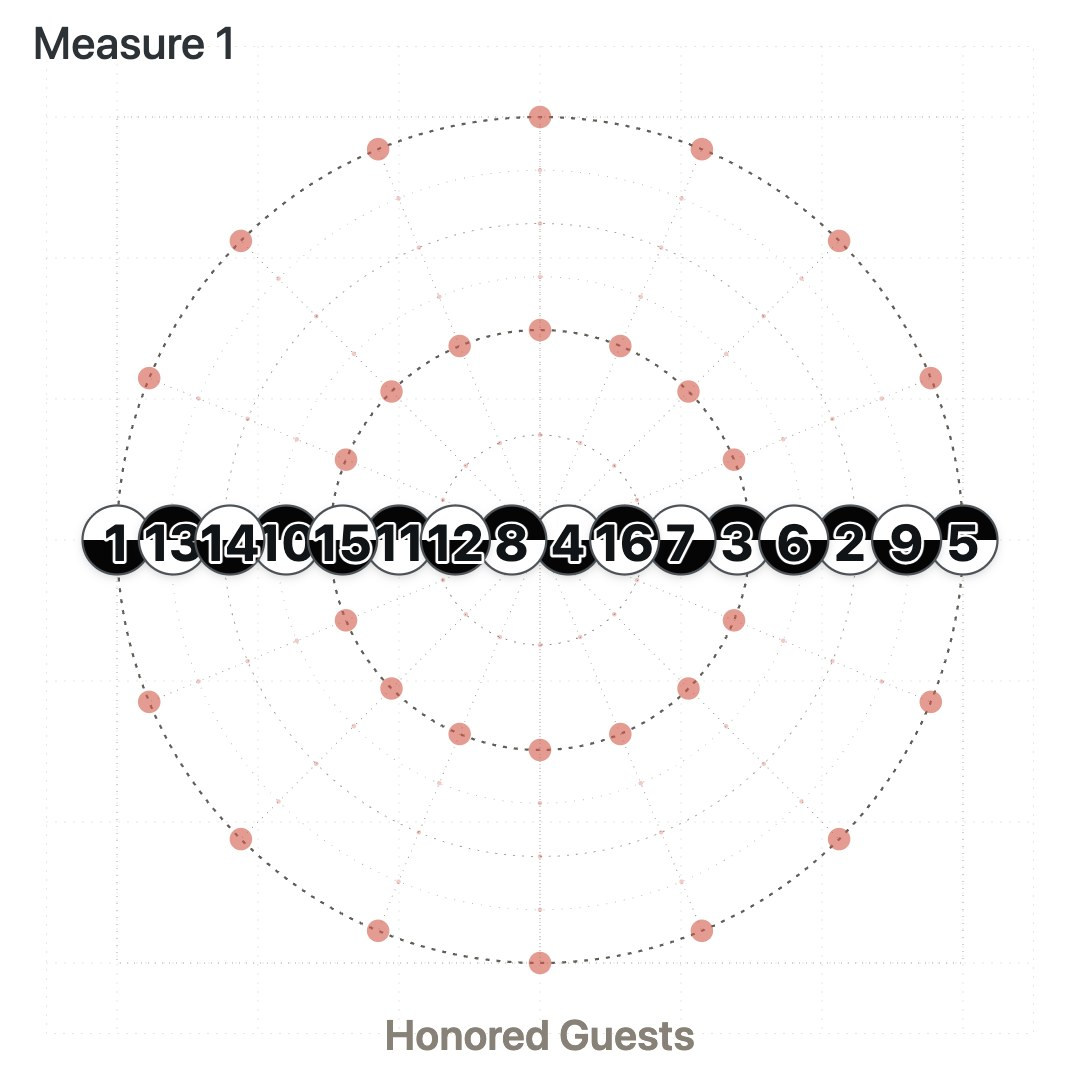
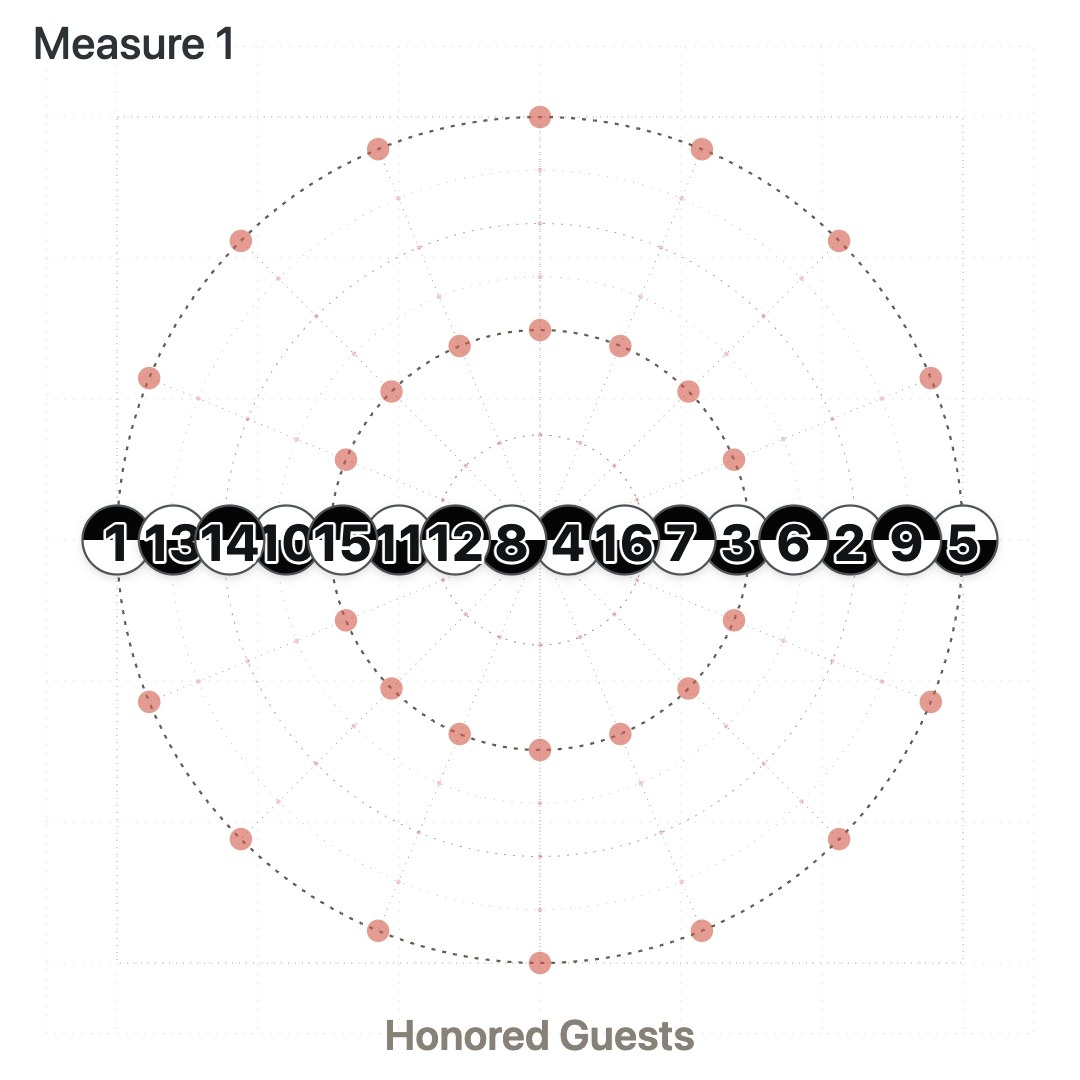
Waltz 14 Swirling Cascade: Measure 1 flipped, Measure 6 inside circle one more tape LOD

Changed region(s): [[0.0611, 0.4583, 0.9472, 0.55]]

diff --git a/index.html b/index.html
@@ -5034,7 +5034,7 @@
             (() => {
               const line = frame("Measure 1", 1, 4, FIT);
               const byX = [...line.items].sort((a, b) => a.x - b.x).map((item) => item.number);
-              line.items.forEach((item) => { item.facingMode = byX.indexOf(item.number) % 2 ? "north" : "south"; });
+              line.items.forEach((item) => { item.facingMode = byX.indexOf(item.number) % 2 ? "south" : "north"; }); // flipped (Ariel, 11/23)
               return named(line, swirl, "Measure 1");
             })(),
             // "Measure 2" (Ariel, 11/23): the Measure 1 line outlined in four groups: follows facing
@@ -5093,9 +5093,9 @@
               shot.items.forEach((item) => { item.facingMode = flipped[item.facingMode] ?? item.facingMode; });
               // Except couple 1 (Ariel, 11/23): F backing the line of dance.
               shot.items.find((item) => item.number === 1).facingMode = "cw";
-              // "Measure 6" (Ariel, 11/23), the next measure: everyone travels 1 more tape along the line
-              // of dance, each on their own circle.
-              const next = named({ ...structuredClone(shot), items: shot.items.map((item) => ({ ...item, ...turnLod(item, 1) })) }, swirl, "Measure 6");
+              // "Measure 6" (Ariel, 11/23), the next measure: everyone travels along the line of dance on
+              // their own circle, 1 tape on the outside, 2 on the inside (green and blue).
+              const next = named({ ...structuredClone(shot), items: shot.items.map((item) => ({ ...item, ...turnLod(item, item.groupColor === "green" || item.groupColor === "blue" ? 2 : 1) })) }, swirl, "Measure 6");
               return [shot, next];
             })(),
           ],
